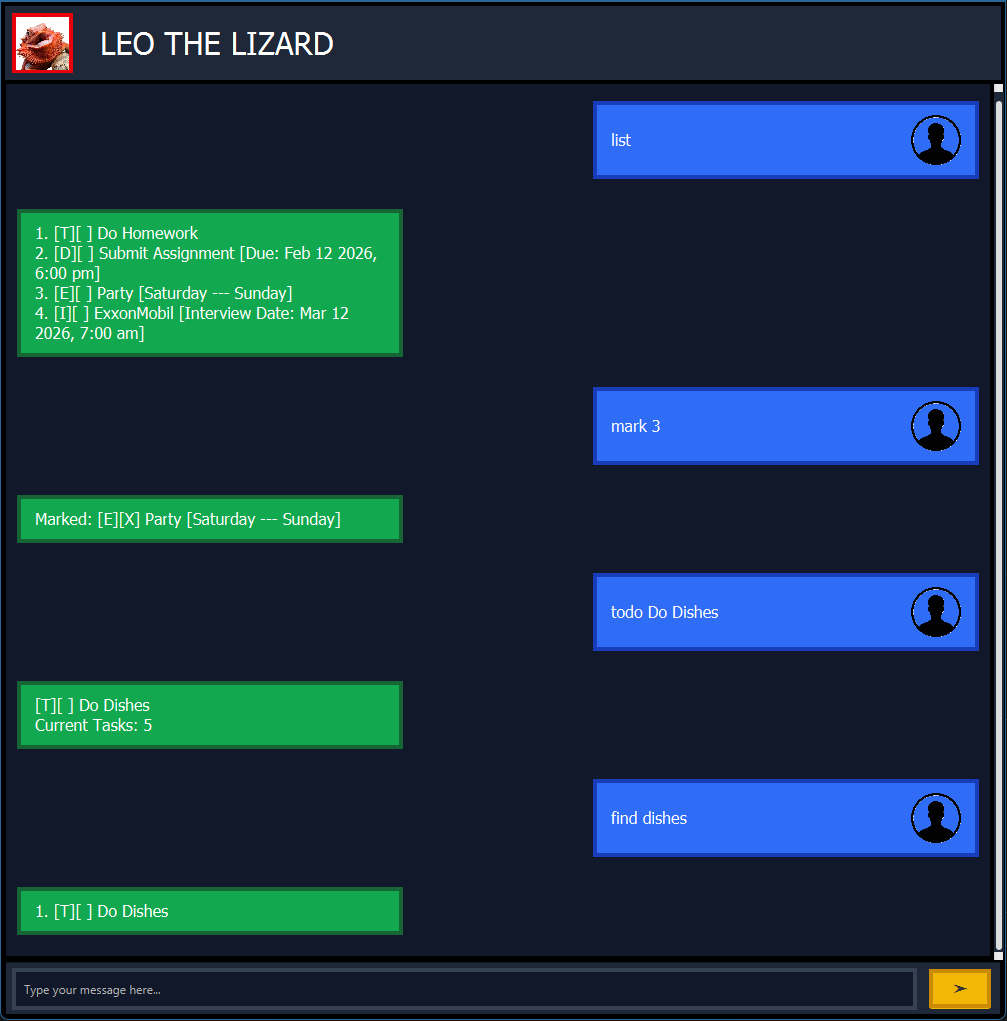
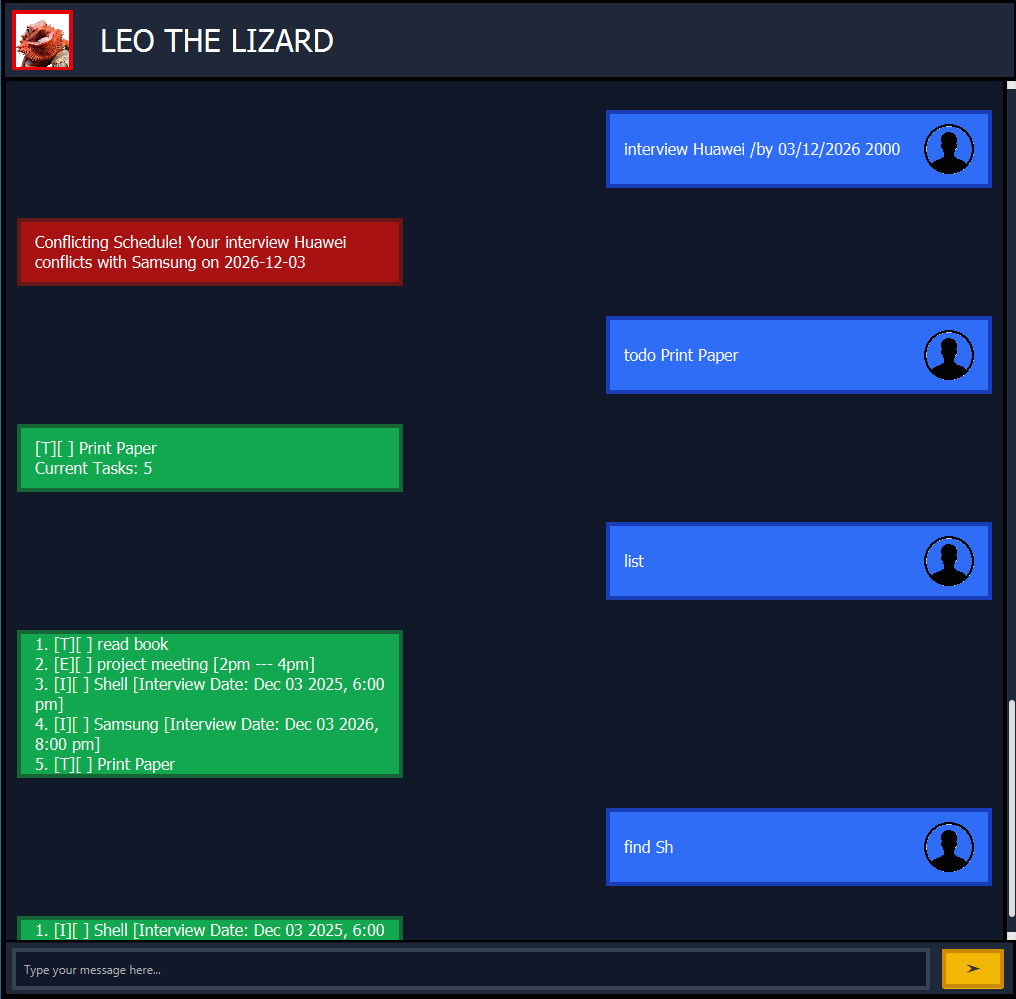
Update Ui.png to include Exception UI

diff --git a/docs/README.md b/docs/README.md
@@ -1,7 +1,7 @@
 # Leo The Lizard User Guide
 
 
-![img.png](img.png)
+![Ui.png](Ui.png)
 
 
 Leo The Lizard is a chatbot that tracks your daily tasks. Simply add your tasks into the chat and Leo would organise them for you!
